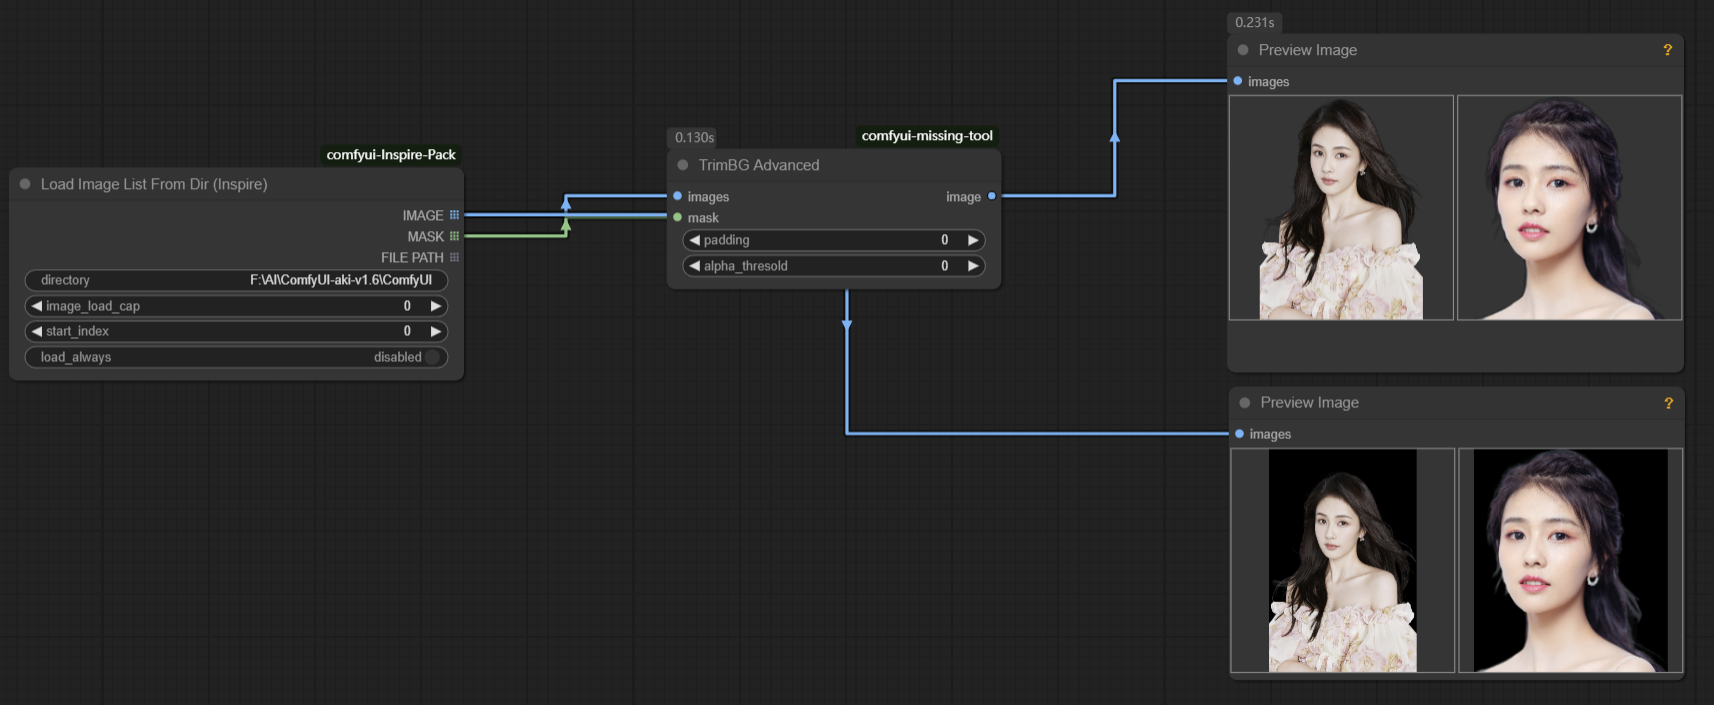
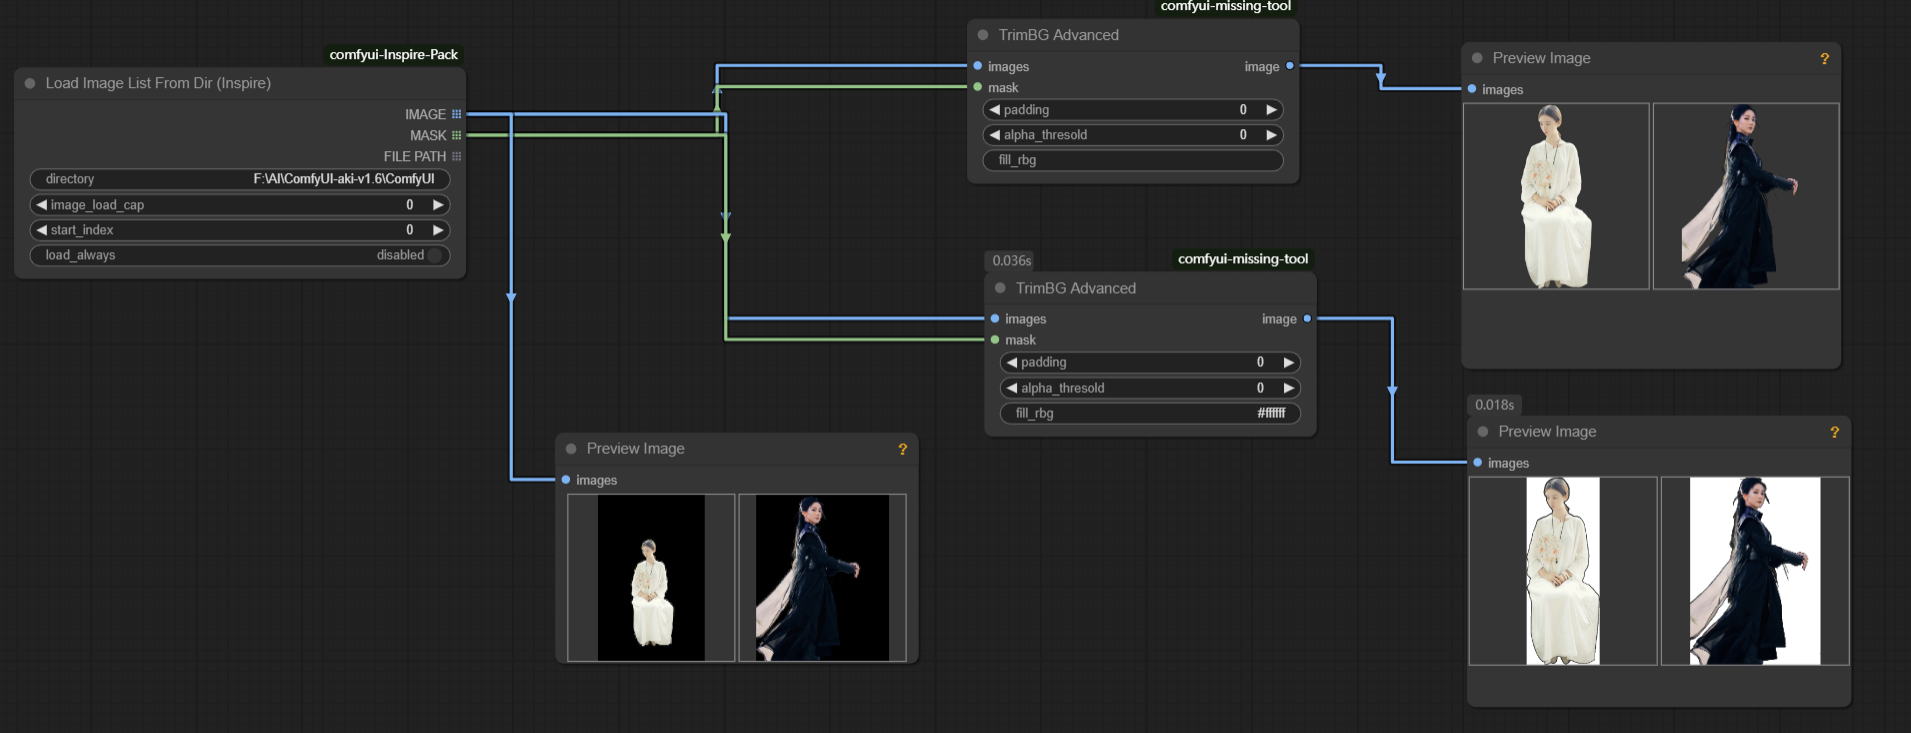
trimbg for fill_rgb

diff --git a/trim_bg.py b/trim_bg.py
@@ -1,6 +1,6 @@
 from itertools import zip_longest
 
-import torch
+from PIL import ImageColor
 
 from .image_transf import *
 
@@ -14,9 +14,10 @@ class TrimBGAdvanced:
         return {
             "required": {
                 "images": ("IMAGE",),
-                "mask": ("MASK",),
+                "mask": ("MASK", {"forceInput": False}),
                 "padding": ("INT", {"default": 0, "min": -1000, "max": 1000, "step": 1, }),
                 "alpha_thresold": ("INT", {"default": 0, "min": 0, "max": 255, "step": 1, }),
+                "fill_rbg": ("STRING", {"default": "", "multiline": False, "tooltip": "rbg value, such as #ffffff"}),
             }
         }
 
@@ -25,16 +26,16 @@ class TrimBGAdvanced:
     FUNCTION = "trim_bg"
     CATEGORY = "missing-tool"
 
-    def trim_bg(self, images, mask, padding=0, alpha_thresold=0):
+    def trim_bg(self, images, mask, padding=0, alpha_thresold=0, fill_rbg=''):
         crop_images = []
         if min(images.shape) > 1:  # batch
             for image, m in zip_longest(images, mask, fillvalue=None):
-                self.trim_bg_process(crop_images, image, m, padding, alpha_thresold)
+                self.trim_bg_process(crop_images, image, m, padding, alpha_thresold, fill_rbg)
         else:  # list
-            self.trim_bg_process(crop_images, images, mask, padding, alpha_thresold)
+            self.trim_bg_process(crop_images, images, mask, padding, alpha_thresold, fill_rbg)
         return crop_images
 
-    def trim_bg_process(self, crop_images, image, m, padding, alpha_thresold):
+    def trim_bg_process(self, crop_images, image, m, padding, alpha_thresold, fill_rbg):
         tensor_img = image.squeeze()
         img_src = None
         img_alpha = None
@@ -46,7 +47,7 @@ class TrimBGAdvanced:
             if m is not None:
                 image_rgb = tensor_to_pil(tensor_img).convert('RGBA')
                 mask_p = tensor_to_pil(1. - m)
-                print(f"image is {image_rgb.size}, mask is {m.shape}, mask_p is {mask_p.size}")
+                # print(f"image is {image_rgb.size}, mask is {m.shape}, mask_p is {mask_p.size}")
                 img_src = Image.composite(image_rgb, Image.new("RGBA", image_rgb.size), mask_p)
                 img_alpha = img_src
             else:
@@ -56,6 +57,11 @@ class TrimBGAdvanced:
                 img_alpha = Image.composite(image_rgb, Image.new("RGBA", image_rgb.size), image_l)
         bbox = self.get_bbox(img_alpha, alpha_thresold, padding)
         img_dst = img_src.crop(bbox)
+        if len(fill_rbg) > 6:
+            image_np = np.array(img_dst)
+            rgb = ImageColor.getrgb(fill_rbg)
+            image_np[image_np[:, :, 3] == 0] = [rgb[0], rgb[1], rgb[2], 255]
+            img_dst = Image.fromarray(image_np)
         crop_images.append(pil_to_tensor(img_dst))
         return crop_images
 
